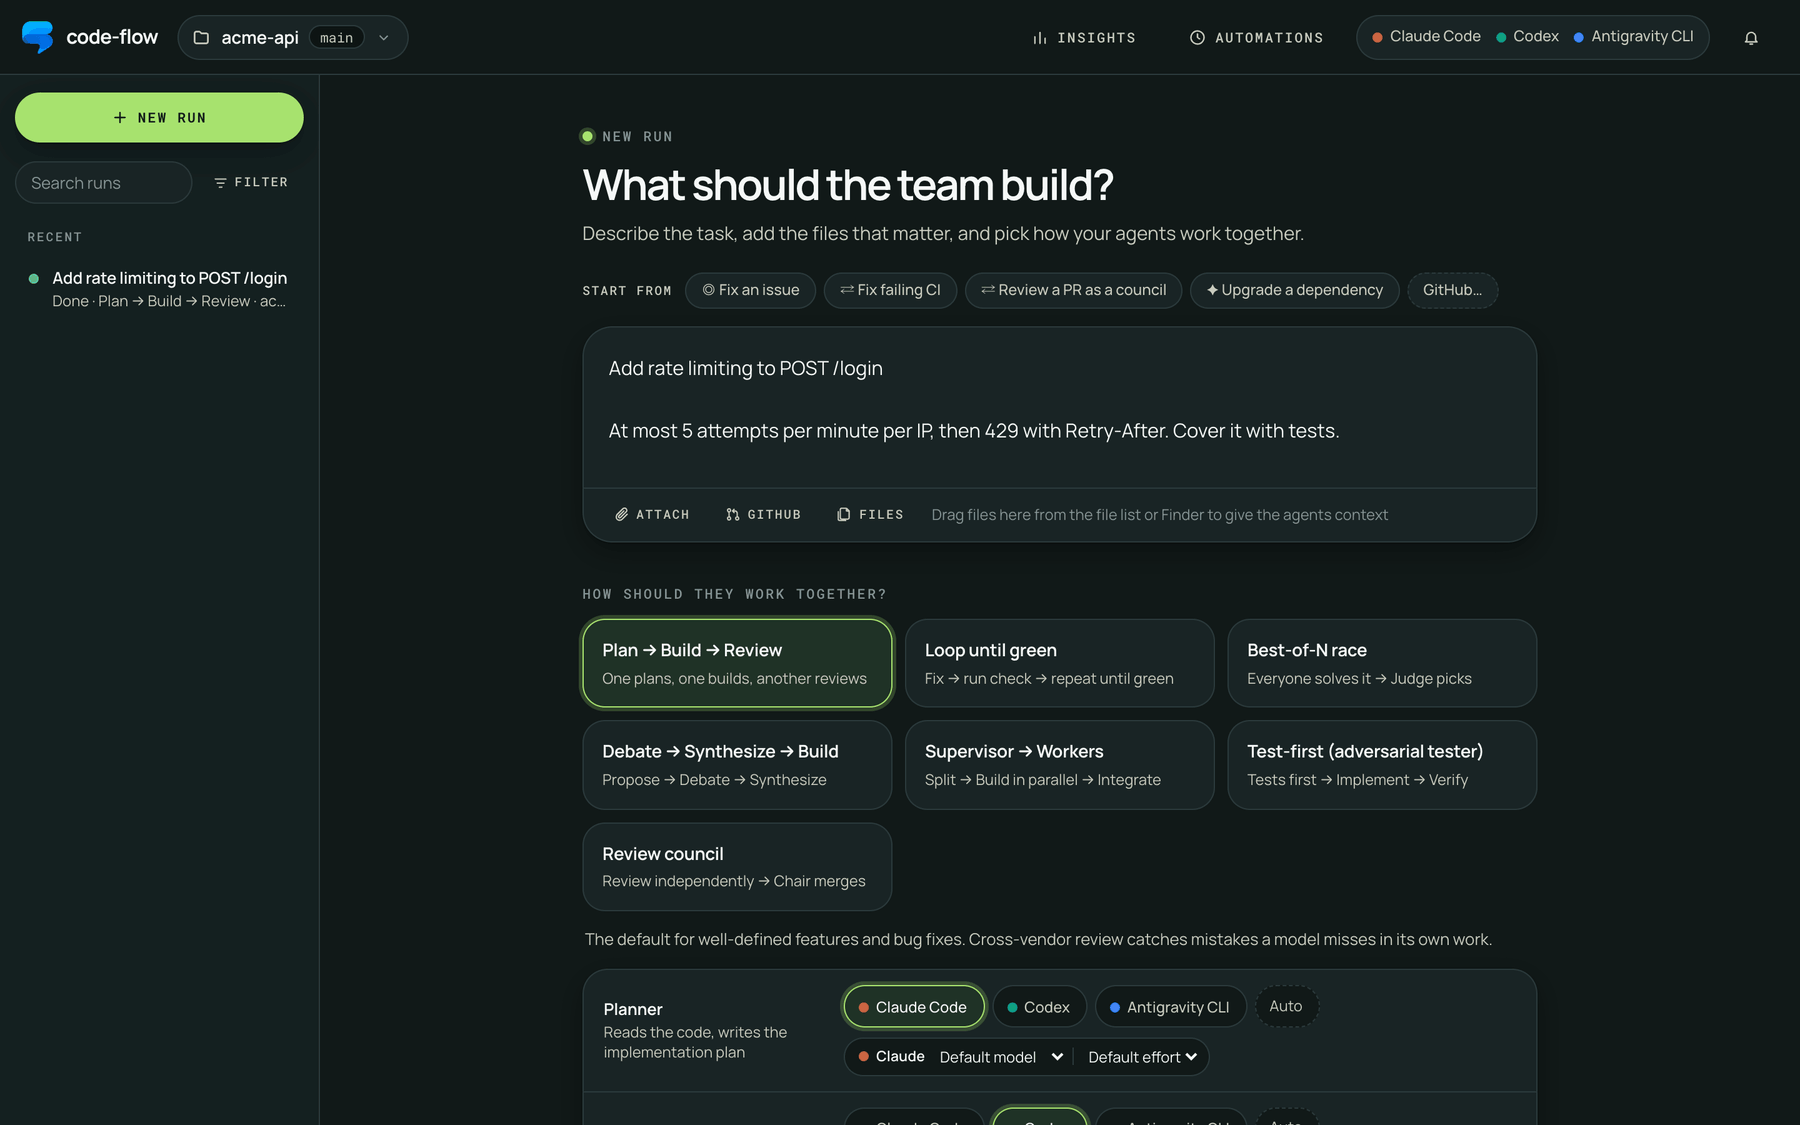
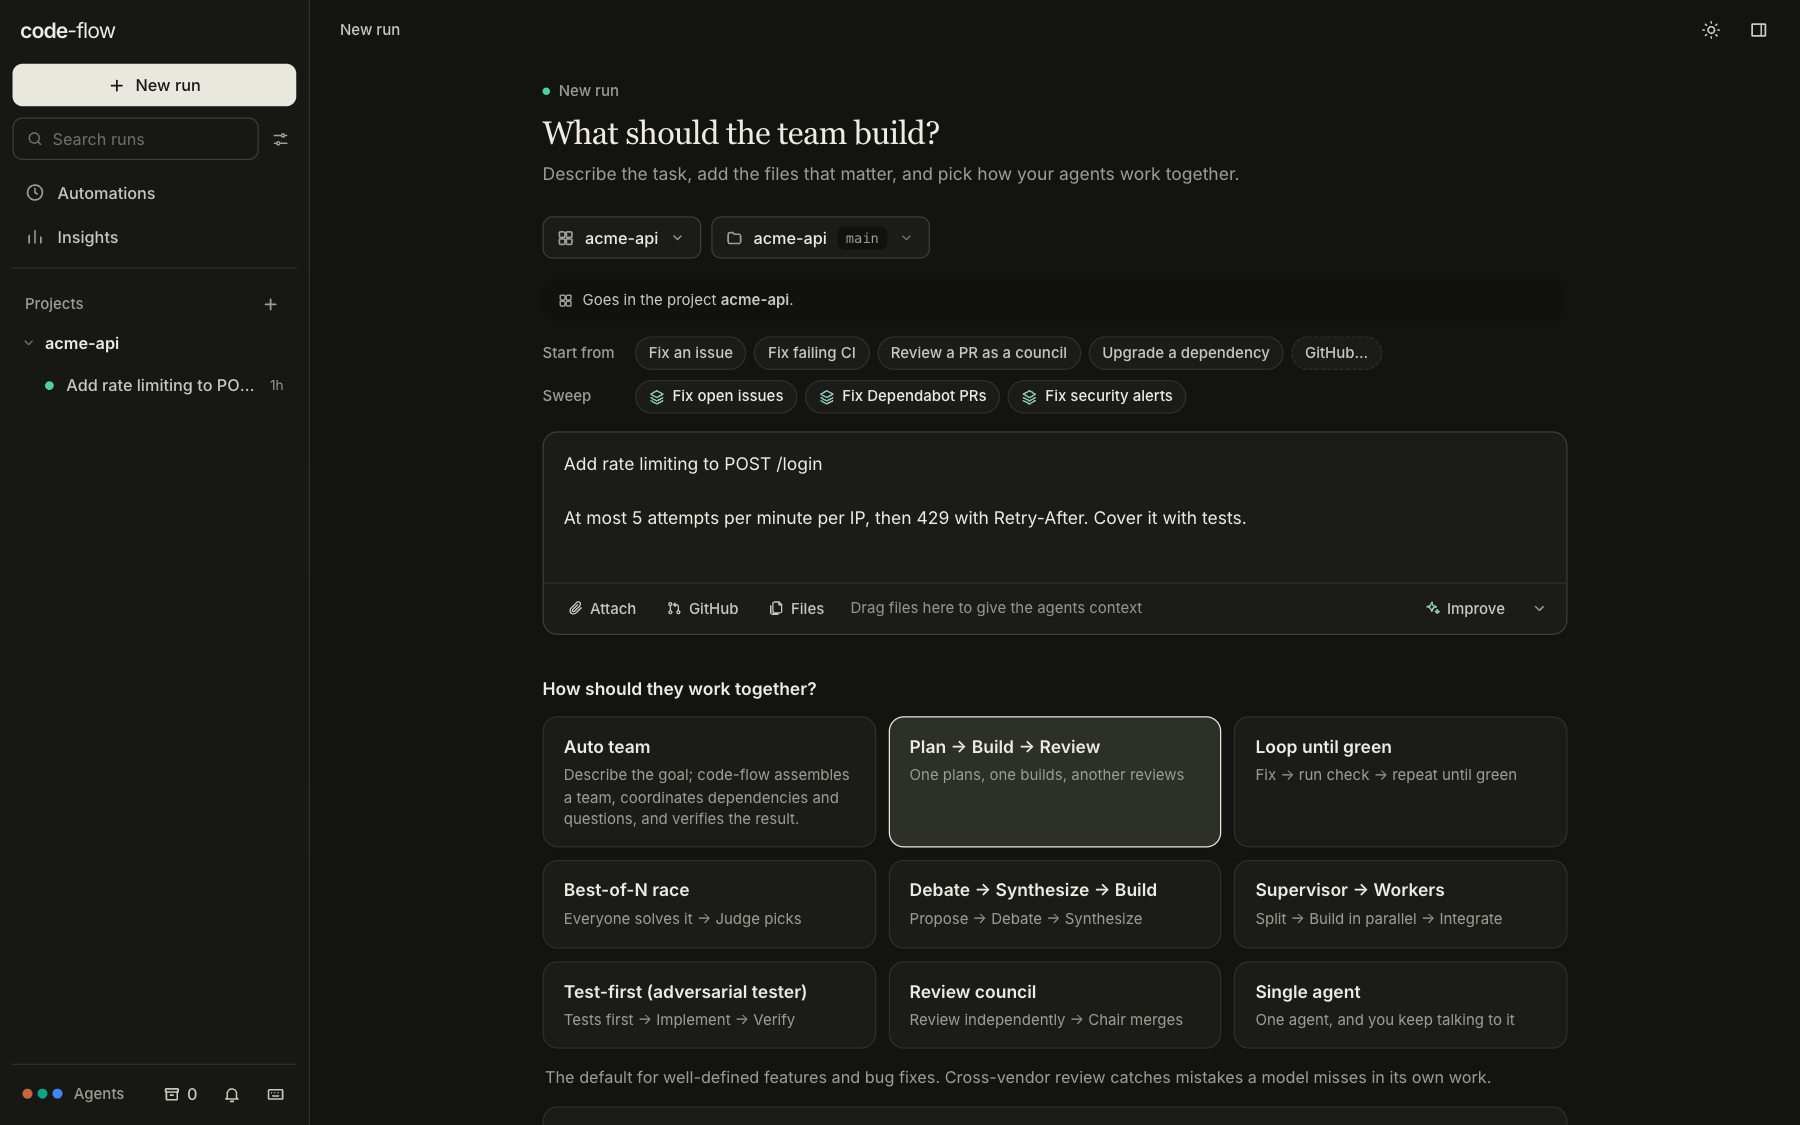
README and docs screenshots in the paper theme
Retaken from a demo run on a throwaway server with fake agents, its
text and timings filled in for readability as before; palette PNGs with
the agents' colours pinned, about 70 KB each.

diff --git a/README.md b/README.md
@@ -19,7 +19,7 @@
 <p align="center">
   <picture>
     <source media="(prefers-color-scheme: dark)" srcset="docs/images/run-dark.png">
-    <img src="docs/images/run-light.png" alt="A code-flow run: the task, four steps by Claude and Codex, and the approved result with its branch (demo data)" width="100%">
+    <img src="docs/images/run-light.png" alt="A code-flow run: the task, eight steps by Claude and Codex, and the approved, proven result with its branch (demo data)" width="100%">
   </picture>
 </p>
 
@@ -57,7 +57,7 @@ Open **http://localhost:4317**, choose a repository, describe the task, pick a t
 
 <picture>
   <source media="(prefers-color-scheme: dark)" srcset="docs/images/composer-dark.png">
-  <img src="docs/images/composer-light.png" alt="The composer: the task, the seven team patterns, and a team with an agent, model and effort per role (demo data)" width="100%">
+  <img src="docs/images/composer-light.png" alt="The composer: the project and repository, templates to start from, the task, and the team patterns with Plan → Build → Review picked (demo data)" width="100%">
 </picture>
 
 | Pattern | How the agents work | Reach for it when |

diff --git a/docs/getting-started.md b/docs/getting-started.md
@@ -23,7 +23,7 @@ The session token exists only in the server's memory, so the agents code-flow ru
 
 ## Your first run
 
-![The composer: a task, the Plan → Build → Review pattern, and a team with a model and effort for each role (demo data)](images/composer-light.png)
+![The composer: a task and the team patterns, with Plan → Build → Review picked (demo data)](images/composer-light.png)
 
 1. Click the **repository button** under the composer's title to choose a repo. The folder browser is served by the local server, because browsers don't expose absolute paths. It marks git repos and remembers recent ones.
 2. Describe the task. Drag files from the **Files** panel, or from Finder, onto the task box to give the agents context. **Improve** (at the right of the task box) rewrites a rough task so agents can act on it: the same intent, with the goal first, the specifics, how to tell it's done, and any open questions. **Undo** puts your text back.
